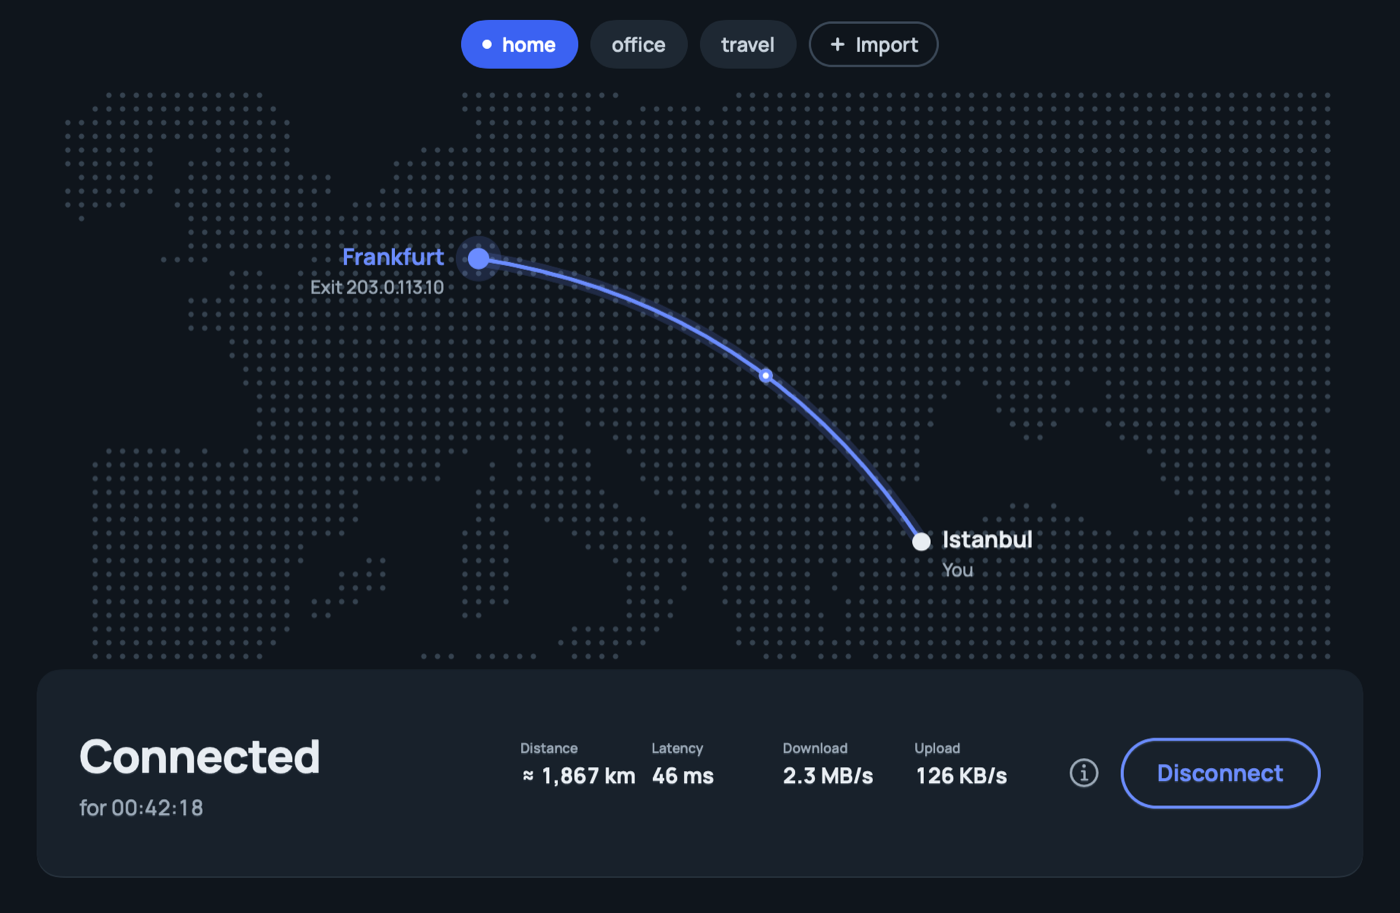
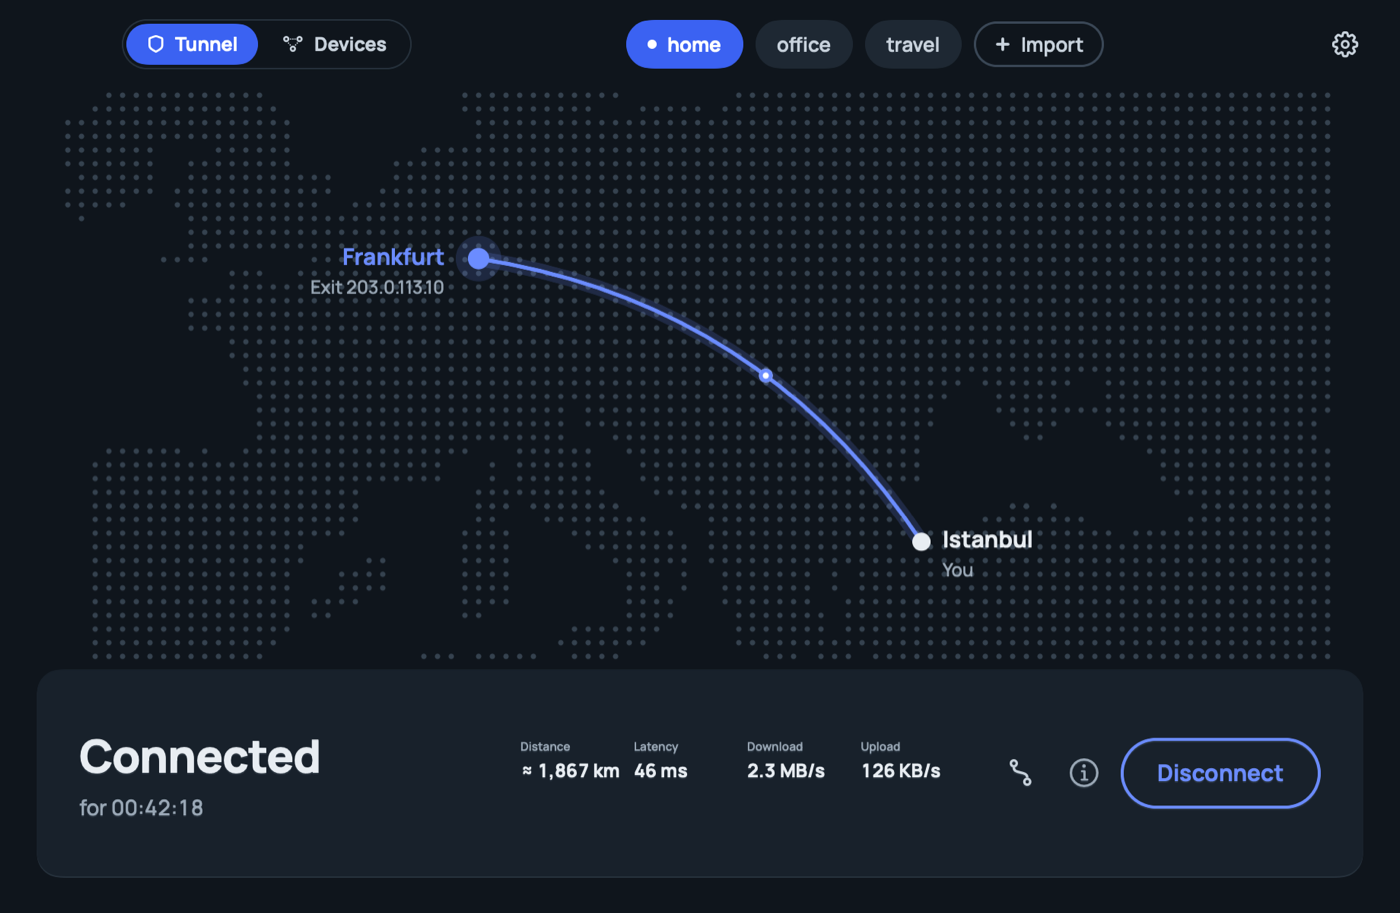
1.4.0: document Devices, refresh screenshots

diff --git a/README.md b/README.md
@@ -129,6 +129,10 @@ Press the route button next to ⓘ on the status card (Esc closes it).
 
 ### Devices
 
+<p align="center">
+  <img src="docs/images/devices-dark.png" width="620" alt="Wirely Devices: the router in the middle of a dotted map with eleven devices around it (a MacBook, phones, a TV, a printer, smart-home devices and one new unknown device), and on the right the selected Hue Bridge's details and the device list">
+</p>
+
 Switch to **Devices** at the top left. The router sits in the middle, every other device around it; click one for its details, or use the list on the right.
 
 - A scan sends one 1-byte UDP packet to every address in your subnet (at most the /24 around your Mac), then reads the system's ARP table (`/usr/sbin/arp -an`). A scan takes a few seconds.
